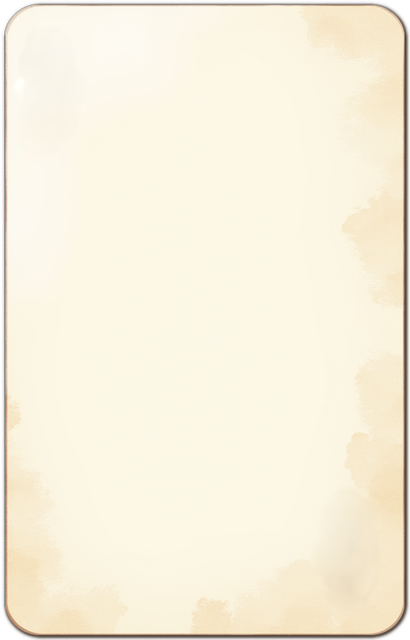
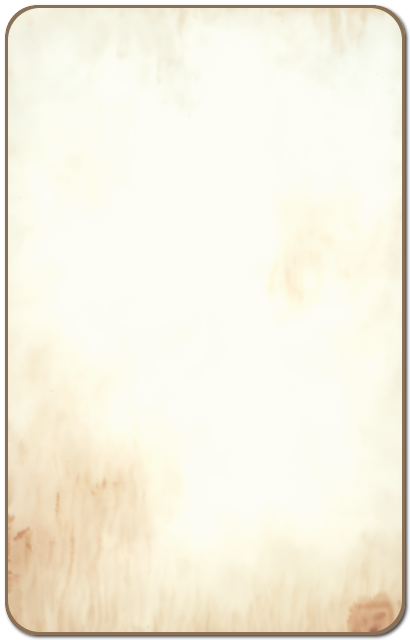
feat: カードの枠を作り直し、影を描き込む
カードとして直接生成することはできなかった。playing cardと言うとトランプの絵札になり、外すと
カードの形が消えて水彩の滲みだけになる（12枚で全滅）。そもそも角丸の半径と余白はcard_art.pyと
Card.tsの定数に一致していなければならず、生成では保証できない。紙のテクスチャだけを生成し、
形はcard_frame.pyで作る。

影は絵に描き込む。カードを回すような動きが無いので、別に描くと描画が増えるだけになる。置ける
場所は余白の5pxしかないため、狭く濃くする（置き換え前の影がほとんど見えなかったのは、狭い場所へ
薄く散らしていたため）。右下へ2pxずらし、ぼかし1.6、濃さ0.75。

Changed region(s): [[0.0, 0.0, 0.9951, 1.0]]

diff --git a/tools/comfyui/card_frame.py b/tools/comfyui/card_frame.py
@@ -1,0 +1,127 @@
+"""生成した紙のテクスチャから、カードの枠（card_frame.png）を組み立てる。
+
+カードの枠は「角丸の紙」でしかないが、角丸の半径と余白は card_art.py の定数と一致していなければ
+ならない（絵が枠からはみ出す）。生成では保証できないので、**紙だけ生成させて形はここで作る**。
+
+直接カードとして生成するのは無理だった。「playing card」と言うとトランプの絵札になり、外すと今度は
+カードの形が消えて水彩の滲みだけになる（12枚で全滅）。一方、紙のテクスチャは安定して出る。
+
+    python card_frame.py paper.png --out card_frame.png
+
+使った設定は出力の隣へ .json として残す。
+"""
+
+from __future__ import annotations
+
+import argparse
+import json
+from pathlib import Path
+
+import numpy as np
+from PIL import Image, ImageDraw
+from scipy.ndimage import gaussian_filter
+
+# 出来上がりの寸法と、紙が占める範囲（card_art.py の PAPER_MARGIN / PAPER_RADIUS、
+# および Card.ts の FRAME_INSET / FRAME_RADIUS と揃っていなければならない）。
+CARD_WIDTH = 410
+CARD_HEIGHT = 640
+MARGIN = 5
+RADIUS = 32
+# 角丸の縁を滑らかにするための倍率。この倍で描いてから縮める。
+SUPERSAMPLE = 4
+
+
+def cover(image: Image.Image, width: int, height: int) -> Image.Image:
+    """縦横比を保ったまま、指定の寸法を覆うよう拡大縮小して中央で切り出す。"""
+    scale = max(width / image.width, height / image.height)
+    resized = image.resize((round(image.width * scale), round(image.height * scale)), Image.LANCZOS)
+    left = (resized.width - width) // 2
+    top = (resized.height - height) // 2
+    return resized.crop((left, top, left + width, top + height))
+
+
+def rounded_mask(width: int, height: int, margin: int, radius: int) -> np.ndarray:
+    """角丸のマスク。拡大して描いてから縮めることで、縁の階段を消す。"""
+    big = Image.new("L", (width * SUPERSAMPLE, height * SUPERSAMPLE), 0)
+    ImageDraw.Draw(big).rounded_rectangle(
+        [
+            margin * SUPERSAMPLE,
+            margin * SUPERSAMPLE,
+            (width - margin) * SUPERSAMPLE - 1,
+            (height - margin) * SUPERSAMPLE - 1,
+        ],
+        radius=radius * SUPERSAMPLE,
+        fill=255,
+    )
+    return np.asarray(big.resize((width, height), Image.BOX), dtype=np.float64) / 255.0
+
+
+def main() -> None:
+    parser = argparse.ArgumentParser(description=__doc__)
+    parser.add_argument("source", help="紙のテクスチャの生成物")
+    parser.add_argument("--out", required=True)
+    parser.add_argument("--paper", default="#fcf8e6", help="紙の色を寄せる目標（#RRGGBB）")
+    parser.add_argument("--wash", type=float, default=0.0,
+                        help="ムラを平均へ寄せる度合い（0〜1）。生成物の染みが強すぎるときに上げる")
+    parser.add_argument("--edge", default="#9c8862", help="縁の線の色")
+    parser.add_argument("--edge-width", type=float, default=1.5, help="縁の線の太さ")
+    parser.add_argument("--margin", type=int, default=MARGIN)
+    parser.add_argument("--radius", type=int, default=RADIUS)
+    # 影を置けるのは余白の5pxだけ。広く薄く散らすと見えなくなるので、狭く濃くする。
+    parser.add_argument("--shadow-offset", type=int, nargs=2, metavar=("DX", "DY"), default=(2, 2),
+                        help="影をずらす量（右・下）")
+    parser.add_argument("--shadow-blur", type=float, default=1.6, help="影のぼかし")
+    parser.add_argument("--shadow-alpha", type=float, default=0.7, help="影の濃さ（0〜1）")
+    args = parser.parse_args()
+
+    rgb = np.asarray(cover(Image.open(args.source).convert("RGB"), CARD_WIDTH, CARD_HEIGHT), dtype=np.float64)
+
+    # 生成された紙は濃いので、目標の色へ寄せる。全面が紙なので、平均を合わせるだけでよい。
+    goal = np.array([int(args.paper.lstrip("#")[i : i + 2], 16) for i in (0, 2, 4)], dtype=np.float64)
+    mean = rgb.reshape(-1, 3).mean(axis=0)
+    rgb = np.clip(rgb * np.divide(goal, mean, out=np.ones(3), where=mean > 0), 0, 255)
+    # 生成物の染みは、カードの下地としては強すぎることがある。平均へ寄せて薄める。
+    if args.wash > 0:
+        rgb = rgb * (1 - args.wash) + goal * args.wash
+
+    alpha = rounded_mask(CARD_WIDTH, CARD_HEIGHT, args.margin, args.radius)
+
+    # 縁の線は、マスクの内側だけに乗るよう、少し内側の角丸との差で描く。
+    if args.edge_width > 0:
+        inner = rounded_mask(CARD_WIDTH, CARD_HEIGHT, args.margin + round(args.edge_width), args.radius)
+        line = np.clip(alpha - inner, 0, 1)[:, :, None]
+        edge = np.array([int(args.edge.lstrip("#")[i : i + 2], 16) for i in (0, 2, 4)], dtype=np.float64)
+        rgb = rgb * (1 - line) + edge * line
+
+    # 影は絵に描き込む。カードを回すような動きは無いので、別に描くと描画が増えるだけになる。
+    if args.shadow_alpha > 0:
+        dx, dy = args.shadow_offset
+        shadow = gaussian_filter(np.roll(alpha, (dy, dx), axis=(0, 1)), sigma=args.shadow_blur)
+        shadow = np.clip(shadow * args.shadow_alpha * (1 - alpha), 0, 1)
+        merged = alpha + shadow
+        # 影は黒なので、合成後の色はカードの色をカードの不透明度で割ったものになる。
+        rgb = rgb * np.divide(alpha, merged, out=np.zeros_like(alpha), where=merged > 0)[:, :, None]
+        alpha = merged
+
+    out = Path(args.out)
+    out.parent.mkdir(parents=True, exist_ok=True)
+    Image.fromarray(np.dstack([rgb, alpha * 255]).clip(0, 255).astype(np.uint8), "RGBA").save(out)
+
+    settings = {
+        "source": Path(args.source).name,
+        "paper": args.paper,
+        "wash": args.wash,
+        "edge": args.edge,
+        "edgeWidth": args.edge_width,
+        "margin": args.margin,
+        "radius": args.radius,
+        "shadowOffset": args.shadow_offset,
+        "shadowBlur": args.shadow_blur,
+        "shadowAlpha": args.shadow_alpha,
+    }
+    out.with_suffix(".json").write_text(json.dumps(settings, ensure_ascii=False, indent=2), "utf-8")
+    print(f"{out}  {CARD_WIDTH}x{CARD_HEIGHT}  余白{args.margin} 角丸{args.radius}")
+
+
+if __name__ == "__main__":
+    main()

diff --git a/tools/comfyui/build.py b/tools/comfyui/build.py
@@ -127,6 +127,22 @@ def main() -> None:
                     *(["--keep-paper"] if card.get("keepPaper") else []),
                 ],
             )
+        elif "cardFrame" in recipe:
+            frame = recipe["cardFrame"]
+            run(
+                "card_frame.py",
+                [
+                    str(raw),
+                    "--out", str(processed),
+                    "--paper", frame["paper"],
+                    "--wash", str(frame["wash"]),
+                    "--edge", frame["edge"],
+                    "--edge-width", str(frame["edgeWidth"]),
+                    "--shadow-offset", *map(str, frame["shadowOffset"]),
+                    "--shadow-blur", str(frame["shadowBlur"]),
+                    "--shadow-alpha", str(frame["shadowAlpha"]),
+                ],
+            )
         elif "pageArt" in recipe:
             page = recipe["pageArt"]
             run(

diff --git a/tools/comfyui/README.md b/tools/comfyui/README.md
@@ -39,6 +39,23 @@ python build.py recipes/character.json
   枠の縁まで絵が乗ってしまう**ためです。代わりに縁からの距離を測って内側で立ち上げるので、境界の
   外は必ず 0 になります。
 
+## カードの枠
+
+```bash
+python build.py recipes/card_frame.json
+```
+
+**カードとして直接生成することはできません。** `playing card` と言うとトランプの絵札になり、外すと
+今度はカードの形が消えて水彩の滲みだけになります（12 枚で全滅）。そもそも角丸の半径と余白は
+`card_art.py` と `Card.ts` の定数に一致していなければならず、生成では保証できません。
+**紙のテクスチャだけを生成し、形は `card_frame.py` で作ります。**
+
+- 生成された紙の染みはカードの下地としては強く、汚れに見えます。`wash` で平均へ寄せて薄めます。
+- 縁の線は、紙を白へ寄せたぶんのコントラストを補うものです。
+- **影は絵に描き込みます。** カードを回すような動きが無いので、別に描くと描画が増えるだけです。
+  ただし置ける場所は余白の 5px しかないため、広く薄く散らさず**狭く濃く**します（置き換え前の影が
+  ほとんど見えなかったのは、狭い場所へ薄く散らしていたためです）。
+
 ## 情報エリアの背景（9patch）
 
 本のページを模した枠付きの面で、`NineSlice` で引き伸ばして使います（`informationArt.ts`）。
@@ -97,6 +114,7 @@ custom_nodes/unmapped_island_seamless  →  <インストール先>\ComfyUI\cust
 | `generate.py` | ワークフローへプロンプトを差し込んで `/prompt` へ投げ、PNG を取ってくる |
 | `postprocess.py` | 油絵風 → 色味合わせ → 保持サイズへ縮小 |
 | `card_art.py` | カードの枠に馴染む形へ整える（明度による透過と、紙の縁でのぼかし） |
+| `card_frame.py` | 紙のテクスチャからカードの枠を組み立てる |
 | `page_art.py` | 本の絵から片ページを切り出し、9patchの素材にする |
 | `custom_nodes/unmapped_island_seamless/` | 左右が繋がった絵を生成するための ComfyUI ノード |
 | `workflows/lane_background_sdxl.api.json` | API 形式のワークフロー（`$名前` がプレースホルダ）。既定 |
